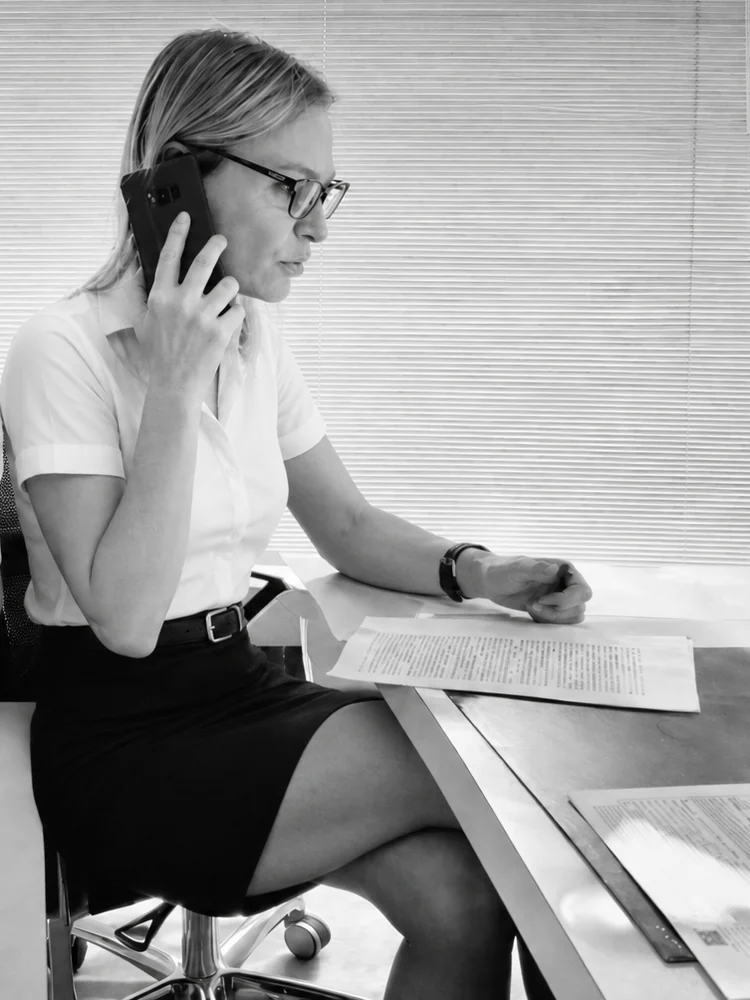
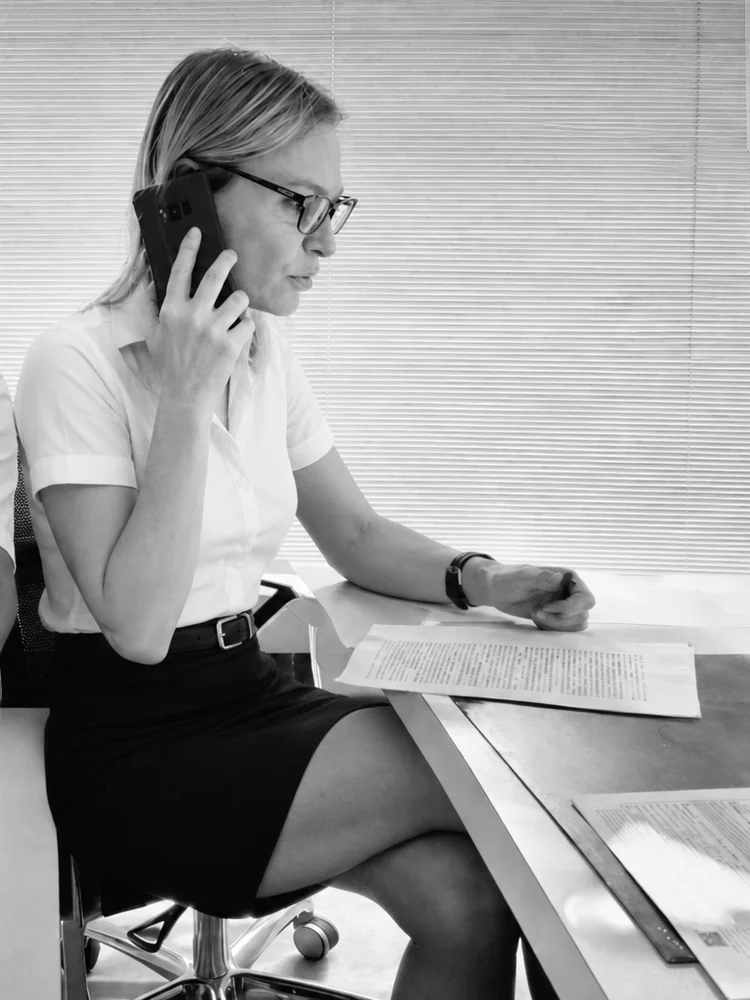
Hero mobile: zoom out 20% su Linda (crop + CSS 125%)
- Crop mobile più largo sulla figura femminile
- CSS mobile: immagine 125% centrata = figura più visibile senza bande
- Cache bust ?v=4

diff --git a/index.html b/index.html
@@ -12,8 +12,8 @@
 <link rel="preload" href="fonts/montserrat-700.woff2" as="font" type="font/woff2" crossorigin>
 <link rel="preload" href="fonts/montserrat-800.woff2" as="font" type="font/woff2" crossorigin>
 <link rel="preload" href="fonts/cormorant-garamond-700.woff2" as="font" type="font/woff2" crossorigin>
-<link rel="preload" href="img/team/titolari-estate-abbigliamento-2026.webp?v=3" as="image" type="image/webp" media="(min-width: 769px)" fetchpriority="high">
-<link rel="preload" href="img/team/titolari-estate-abbigliamento-2026-mobile.webp?v=3" as="image" type="image/webp" media="(max-width: 768px)" fetchpriority="high">
+<link rel="preload" href="img/team/titolari-estate-abbigliamento-2026.webp?v=4" as="image" type="image/webp" media="(min-width: 769px)" fetchpriority="high">
+<link rel="preload" href="img/team/titolari-estate-abbigliamento-2026-mobile.webp?v=4" as="image" type="image/webp" media="(max-width: 768px)" fetchpriority="high">
 <meta name="google-site-verification" content="AbK7L5qoV9UFcfjQmtpC5OmD1ZsHx_55NNGYjxlOSxw">
 <meta name="theme-color" content="#2C4A6E">
 <meta name="robots" content="index, follow, max-image-preview:large">
@@ -526,9 +526,17 @@ button{font-family:inherit;cursor:pointer}
   .hero-inner{grid-template-columns:1fr;padding:0 20px;padding-top:calc(var(--nav-h) + 44px);padding-bottom:88px}
   .hero-right{display:none}
   #hero{min-height:620px}
+  #hero-bg picture{
+    display:flex;align-items:center;justify-content:center;
+    width:100%;height:100%;
+  }
   #hero-bg img,
   #hero-bg picture img{
-    object-position:center 20%;
+    width:80%;
+    height:80%;
+    max-width:none;
+    object-fit:cover;
+    object-position:center 22%;
     transform:none;
     animation:none;
   }
@@ -943,8 +951,8 @@ button svg, a.btn-p svg, a.btn-g svg {
   <!-- Hero estate: desktop entrambi | mobile solo Linda (crop destro). Ripristino: titolari.webp -->
   <div id="hero-bg">
     <picture>
-      <source media="(max-width: 768px)" srcset="img/team/titolari-estate-abbigliamento-2026-mobile.webp?v=3" type="image/webp" width="750" height="1000">
-      <img src="img/team/titolari-estate-abbigliamento-2026.webp?v=3" alt="Gino Capon e Linda Righetto — Righetto Immobiliare" width="1200" height="630" fetchpriority="high">
+      <source media="(max-width: 768px)" srcset="img/team/titolari-estate-abbigliamento-2026-mobile.webp?v=4" type="image/webp" width="750" height="1000">
+      <img src="img/team/titolari-estate-abbigliamento-2026.webp?v=4" alt="Gino Capon e Linda Righetto — Righetto Immobiliare" width="1200" height="630" fetchpriority="high">
     </picture>
   </div>
   <div class="hero-veil"></div>
